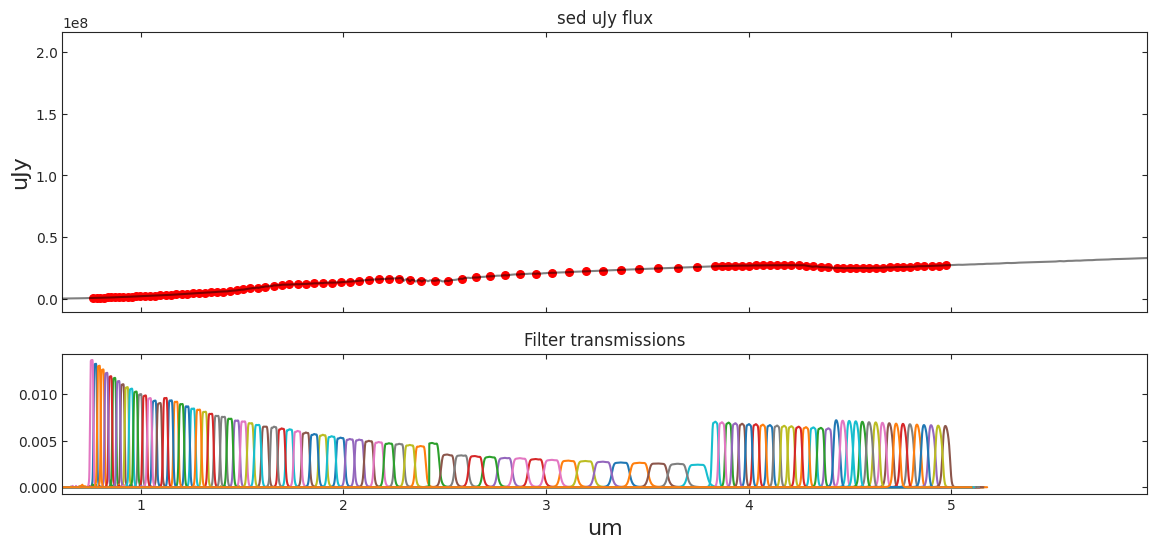
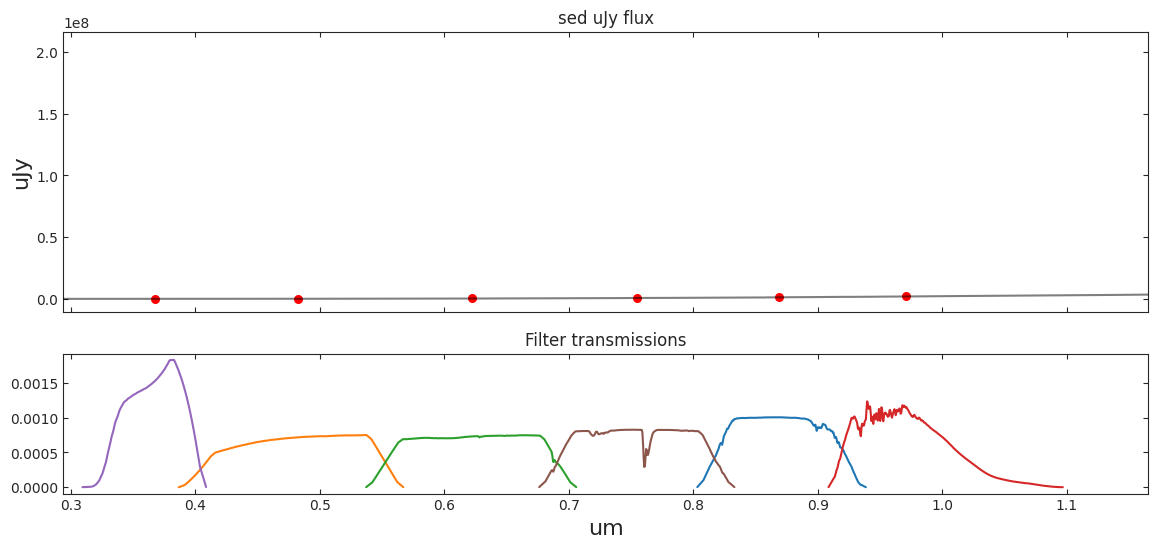
profiles

diff --git a/README.md b/README.md
@@ -22,9 +22,6 @@ pip install watercolor
 from watercolor.paint import photometry_from_catalog, photometry_from_catalog_opencosmo
 ```
 
-    /lcrc/project/cosmo_ai/nramachandra/Projects/Hydro_paint/watercolor/watercolor/load_sim_stellar_catalog.py:13: UserWarning: pkg_resources is deprecated as an API. See https://setuptools.pypa.io/en/latest/pkg_resources.html. The pkg_resources package is slated for removal as early as 2025-11-30. Refrain from using this package or pin to Setuptools<81.
-      import pkg_resources
-
 #### First we load the galaxy catalog. The main physical quantities required for painting the colors are the metallicities, stellar mass and age of the star particles of a galaxy.
 
 ``` python
@@ -297,32 +294,6 @@ a.legend(fontsize='x-large')
 ``` python
 ##### Load survey filters 
 
-SURVEY_STRING = 'SPHEREx'
-central_wavelengths, bandpass_wavs, bandpass_vals, bandpass_names = load_survey_pickle(SURVEY_STRING)
-
-##### Compute bandpasses
-
-# sed_um_wave = spec_wave_ssp/1e4
-# sed_mJy_flux = spec_csp*1e3
-sed_um_wave = redsh_wave/1e4
-sed_mJy_flux = redsh_spec*1e3
-
-flux_survey, appmag_ext_survey, band_fluxes_survey = photometry_from_spectra(central_wavelengths, 
-                                                                          sed_um_wave, 
-                                                                          sed_mJy_flux, 
-                                                                          bandpass_wavs, 
-                                                                          bandpass_vals, 
-                                                                          bandpass_names,
-                                                                          interp_kind='linear',
-                                                                          plot=True,
-                                                                          clip_bandpass=True)
-```
-
-![](index_files/figure-commonmark/cell-16-output-1.png)
-
-``` python
-##### Load survey filters 
-
 SURVEY_STRING = 'LSST'
 central_wavelengths, bandpass_wavs, bandpass_vals, bandpass_names = load_survey_pickle(SURVEY_STRING)
 
@@ -344,34 +315,7 @@ flux_survey, appmag_ext_survey, band_fluxes_survey = photometry_from_spectra(cen
                                                                           clip_bandpass=True)
 ```
 
-![](index_files/figure-commonmark/cell-17-output-1.png)
-
-``` python
-##### Load survey filters 
-
-SURVEY_STRING = 'COSMOS'
-central_wavelengths, bandpass_wavs, bandpass_vals, bandpass_names = load_survey_pickle(SURVEY_STRING)
-
-
-##### Compute bandpasses
-
-# sed_um_wave = spec_wave_ssp/1e4
-# sed_mJy_flux = spec_csp*1e3
-sed_um_wave = redsh_wave/1e4
-sed_mJy_flux = redsh_spec*1e3
-
-flux_survey, appmag_ext_survey, band_fluxes_survey = photometry_from_spectra(central_wavelengths, 
-                                                                          sed_um_wave, 
-                                                                          sed_mJy_flux, 
-                                                                          bandpass_wavs, 
-                                                                          bandpass_vals, 
-                                                                          bandpass_names,
-                                                                          interp_kind='linear',
-                                                                          plot=True,
-                                                                          clip_bandpass=True)
-```
-
-![](index_files/figure-commonmark/cell-18-output-1.png)
+![](index_files/figure-commonmark/cell-16-output-1.png)
 
 ## Luminosity distribution of galaxies can be checked too
 
@@ -443,7 +387,7 @@ plot_galaxy_profiles(
     /lcrc/project/cosmo_ai/nramachandra/Projects/tmp/ipykernel_1615613/312085280.py:370: UserWarning: This figure includes Axes that are not compatible with tight_layout, so results might be incorrect.
       plt.tight_layout()
 
-![](index_files/figure-commonmark/cell-22-output-2.png)
+![](index_files/figure-commonmark/cell-20-output-2.png)
 
     Galaxy Properties:
       Total mass: 2.63e+10 M☉
